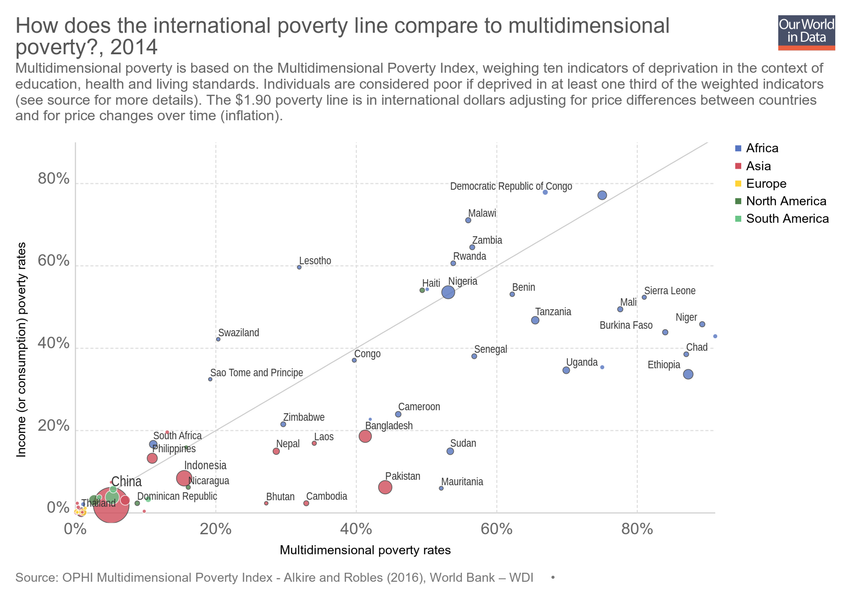
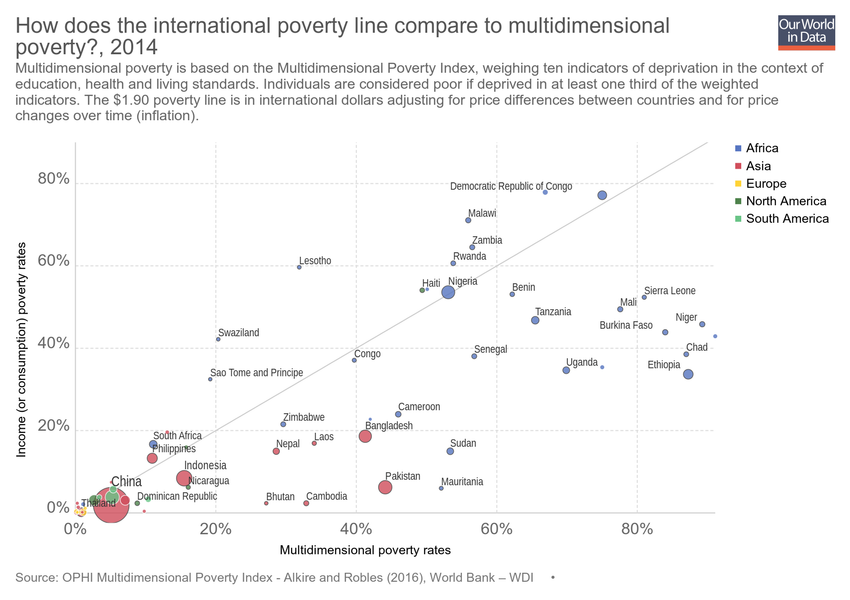
Updating chart MPI-vs-Consumption

Changed region(s): [[0.0, 0.12, 0.9788, 0.21]]

diff --git a/grapher/MPI-vs-Consumption.html b/grapher/MPI-vs-Consumption.html
@@ -1,4 +1,4 @@
-<!doctype html><html><head><meta name="viewport" content="width=device-width, initial-scale=1" /><title>How does the international poverty line compare to multidimensional poverty? - Our World in Data</title><meta name="description" content="Multidimensional poverty is based on the Multidimensional Poverty Index, weighing ten indicators of deprivation in the context of education, health and living standards. Individuals are considered poor if deprived in at least one third of the weighted indicators (see source for more details). The $1.90 poverty line is in international dollars adjusting for price differences between countries and for price changes over time (inflation)." /><link rel="canonical" href="https://ourworldindata.org/grapher/MPI-vs-Consumption" /><meta property="fb:app_id" content="1149943818390250" /><meta property="og:url" content="https://ourworldindata.org/grapher/MPI-vs-Consumption" /><meta property="og:title" content="How does the international poverty line compare to multidimensional poverty?" /><meta property="og:description" content="Multidimensional poverty is based on the Multidimensional Poverty Index, weighing ten indicators of deprivation in the context of education, health and living standards. Individuals are considered poor if deprived in at least one third of the weighted indicators (see source for more details). The $1.90 poverty line is in international dollars adjusting for price differences between countries and for price changes over time (inflation)." /><meta property="og:image" content="https://ourworldindata.org/grapher/exports/MPI-vs-Consumption.png?v=5" /><meta property="og:image:width" content="850" /><meta property="og:image:height" content="600" /><meta property="og:site_name" content="Our World in Data" /><meta name="twitter:card" content="summary_large_image" /><meta name="twitter:site" content="@OurWorldInData" /><meta name="twitter:creator" content="@OurWorldInData" /><meta name="twitter:title" content="How does the international poverty line compare to multidimensional poverty?" /><meta name="twitter:description" content="Multidimensional poverty is based on the Multidimensional Poverty Index, weighing ten indicators of deprivation in the context of education, health and living standards. Individuals are considered poor if deprived in at least one third of the weighted indicators (see source for more details). The $1.90 poverty line is in international dollars adjusting for price differences between countries and for price changes over time (inflation)." /><meta name="twitter:image" content="https://ourworldindata.org/grapher/exports/MPI-vs-Consumption.png?v=5" /><style>
+<!doctype html><html><head><meta name="viewport" content="width=device-width, initial-scale=1" /><title>How does the international poverty line compare to multidimensional poverty? - Our World in Data</title><meta name="description" content="Multidimensional poverty is based on the Multidimensional Poverty Index, weighing ten indicators of deprivation in the context of education, health and living standards. Individuals are considered poor if deprived in at least one third of the weighted indicators. The $1.90 poverty line is in international dollars adjusting for price differences between countries and for price changes over time (inflation)." /><link rel="canonical" href="https://ourworldindata.org/grapher/MPI-vs-Consumption" /><meta property="fb:app_id" content="1149943818390250" /><meta property="og:url" content="https://ourworldindata.org/grapher/MPI-vs-Consumption" /><meta property="og:title" content="How does the international poverty line compare to multidimensional poverty?" /><meta property="og:description" content="Multidimensional poverty is based on the Multidimensional Poverty Index, weighing ten indicators of deprivation in the context of education, health and living standards. Individuals are considered poor if deprived in at least one third of the weighted indicators. The $1.90 poverty line is in international dollars adjusting for price differences between countries and for price changes over time (inflation)." /><meta property="og:image" content="https://ourworldindata.org/grapher/exports/MPI-vs-Consumption.png?v=6" /><meta property="og:image:width" content="850" /><meta property="og:image:height" content="600" /><meta property="og:site_name" content="Our World in Data" /><meta name="twitter:card" content="summary_large_image" /><meta name="twitter:site" content="@OurWorldInData" /><meta name="twitter:creator" content="@OurWorldInData" /><meta name="twitter:title" content="How does the international poverty line compare to multidimensional poverty?" /><meta name="twitter:description" content="Multidimensional poverty is based on the Multidimensional Poverty Index, weighing ten indicators of deprivation in the context of education, health and living standards. Individuals are considered poor if deprived in at least one third of the weighted indicators. The $1.90 poverty line is in international dollars adjusting for price differences between countries and for price changes over time (inflation)." /><meta name="twitter:image" content="https://ourworldindata.org/grapher/exports/MPI-vs-Consumption.png?v=6" /><style>
         html, body {
             height: 100%;
             margin: 0;
@@ -20,8 +20,8 @@
         }
     </style><noscript><style>
                     figure { display: none !important; }
-                </style></noscript><link rel="stylesheet" href="https://ourworldindata.org/grapher/assets/commons.bundle.1fb9afe5c9103588de22.css" /><link rel="preload" href="/grapher/data/variables/1482+3520+72+123.json?v=5" as="fetch" crossorigin /></head><body class="singleChart"><figure data-grapher-src="/grapher/MPI-vs-Consumption"></figure><noscript id="fallback"><img src="/grapher/exports/MPI-vs-Consumption.svg" /><p>Interactive visualization requires JavaScript</p></noscript><script src="https://cdn.polyfill.io/v2/polyfill.min.js?features=es6,fetch"></script><script src="https://ourworldindata.org/grapher/assets/commons.bundle.1fb9afe5c9103588de22.js"></script><script src="https://ourworldindata.org/grapher/assets/charts.bundle.1fb9afe5c9103588de22.js"></script><script>
-        var jsonConfig = {"id":417,"map":{"projection":"World","targetYear":1980,"variableId":72,"timeTolerance":1,"baseColorScheme":"BuGn","colorSchemeInvert":false,"colorSchemeLabels":[],"colorSchemeValues":[],"legendDescription":"","customColorsActive":false,"colorSchemeMinValue":0,"customNumericColors":[],"customCategoryColors":[],"customCategoryLabels":[],"customHiddenCategories":[]},"tab":"chart","note":"","slug":"MPI-vs-Consumption","type":"ScatterPlot","title":"How does the international poverty line compare to multidimensional poverty?","xAxis":{"max":90,"min":0,"suffix":"%","scaleType":"linear"},"yAxis":{"max":90,"min":0,"suffix":"%","scaleType":"linear","labelDistance":-10},"version":5,"subtitle":"Multidimensional poverty is based on the Multidimensional Poverty Index, weighing ten indicators of deprivation in the context of education, health and living standards. Individuals are considered poor if deprived in at least one third of the weighted indicators (see source for more details). The $1.90 poverty line is in international dollars adjusting for price differences between countries and for price changes over time (inflation).","hasMapTab":false,"originUrl":"https://ourworldindata.org/extreme-poverty/","stackMode":null,"dimensions":[{"display":{"name":"Multidimensional poverty rates","unit":"(% population)","tolerance":5,"isProjection":false},"property":"x","variableId":1482},{"display":{"name":"Income (or consumption) poverty rates","unit":"%","tolerance":5,"isProjection":false},"property":"y","variableId":3520},{"display":{"tolerance":5,"isProjection":false},"property":"size","variableId":72},{"display":{},"property":"color","variableId":123}],"entityType":"country","hideLegend":true,"hasChartTab":true,"isPublished":true,"hideTimeline":true,"selectedData":[],"internalNotes":"","addCountryMode":"add-country","comparisonLine":{"yEquals":"x"},"hideRelativeToggle":false};
+                </style></noscript><link rel="stylesheet" href="https://ourworldindata.org/grapher/assets/commons.bundle.1fb9afe5c9103588de22.css" /><link rel="preload" href="/grapher/data/variables/1482+3520+72+123.json?v=6" as="fetch" crossorigin /></head><body class="singleChart"><figure data-grapher-src="/grapher/MPI-vs-Consumption"></figure><noscript id="fallback"><img src="/grapher/exports/MPI-vs-Consumption.svg" /><p>Interactive visualization requires JavaScript</p></noscript><script src="https://cdn.polyfill.io/v2/polyfill.min.js?features=es6,fetch"></script><script src="https://ourworldindata.org/grapher/assets/commons.bundle.1fb9afe5c9103588de22.js"></script><script src="https://ourworldindata.org/grapher/assets/charts.bundle.1fb9afe5c9103588de22.js"></script><script>
+        var jsonConfig = {"id":417,"map":{"projection":"World","targetYear":1980,"variableId":72,"timeTolerance":1,"baseColorScheme":"BuGn","colorSchemeInvert":false,"colorSchemeLabels":[],"colorSchemeValues":[],"legendDescription":"","customColorsActive":false,"colorSchemeMinValue":0,"customNumericColors":[],"customCategoryColors":[],"customCategoryLabels":[],"customHiddenCategories":[]},"tab":"chart","note":"","slug":"MPI-vs-Consumption","type":"ScatterPlot","title":"How does the international poverty line compare to multidimensional poverty?","xAxis":{"max":90,"min":0,"suffix":"%","scaleType":"linear"},"yAxis":{"max":90,"min":0,"suffix":"%","scaleType":"linear","labelDistance":-10},"version":6,"subtitle":"Multidimensional poverty is based on the Multidimensional Poverty Index, weighing ten indicators of deprivation in the context of education, health and living standards. Individuals are considered poor if deprived in at least one third of the weighted indicators. The $1.90 poverty line is in international dollars adjusting for price differences between countries and for price changes over time (inflation).","hasMapTab":false,"originUrl":"https://ourworldindata.org/extreme-poverty/","stackMode":null,"dimensions":[{"display":{"name":"Multidimensional poverty rates","unit":"(% population)","tolerance":5,"isProjection":false},"property":"x","variableId":1482},{"display":{"name":"Income (or consumption) poverty rates","unit":"%","tolerance":5,"isProjection":false},"property":"y","variableId":3520},{"display":{"tolerance":5,"isProjection":false},"property":"size","variableId":72},{"display":{},"property":"color","variableId":123}],"entityType":"country","hideLegend":true,"hasChartTab":true,"isPublished":true,"hideTimeline":true,"selectedData":[],"internalNotes":"","addCountryMode":"add-country","comparisonLine":{"yEquals":"x"},"hideRelativeToggle":false};
         var figure = document.getElementsByTagName("figure")[0];
         try {
             window.App = {};
